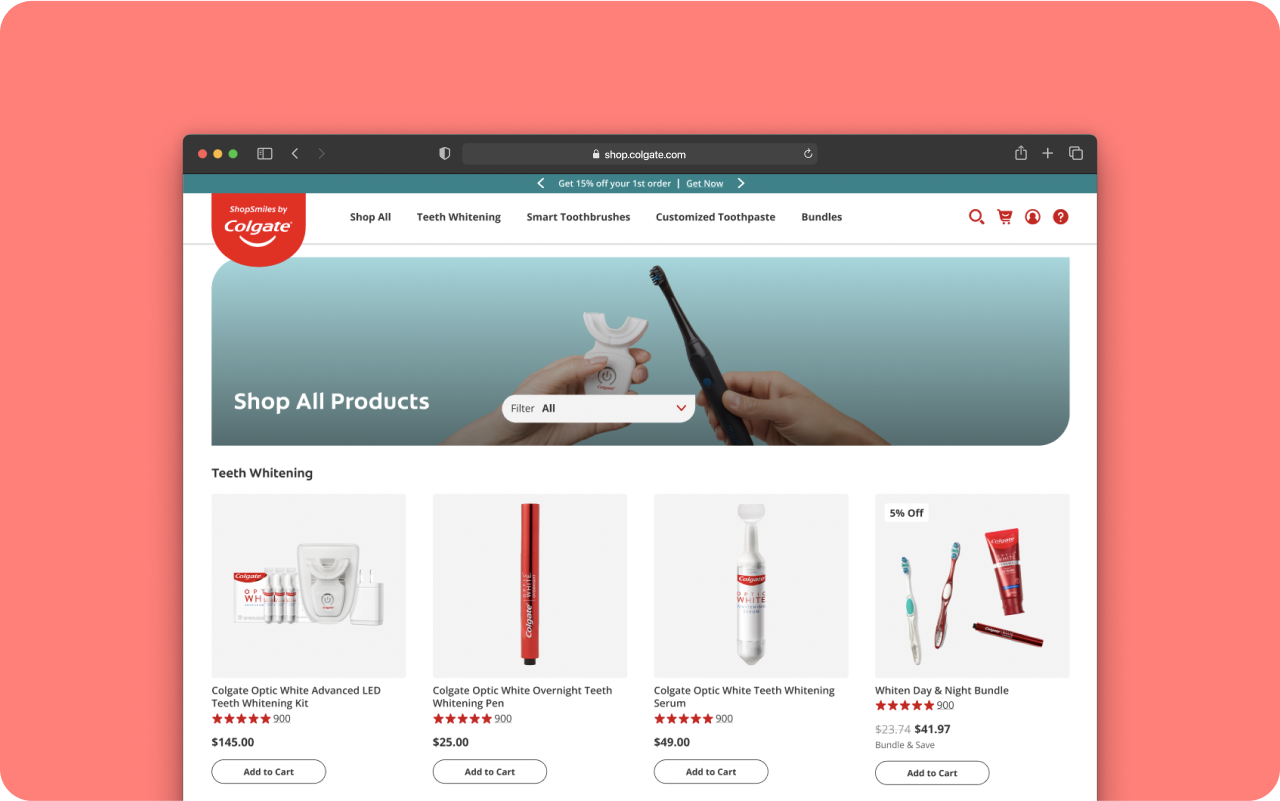
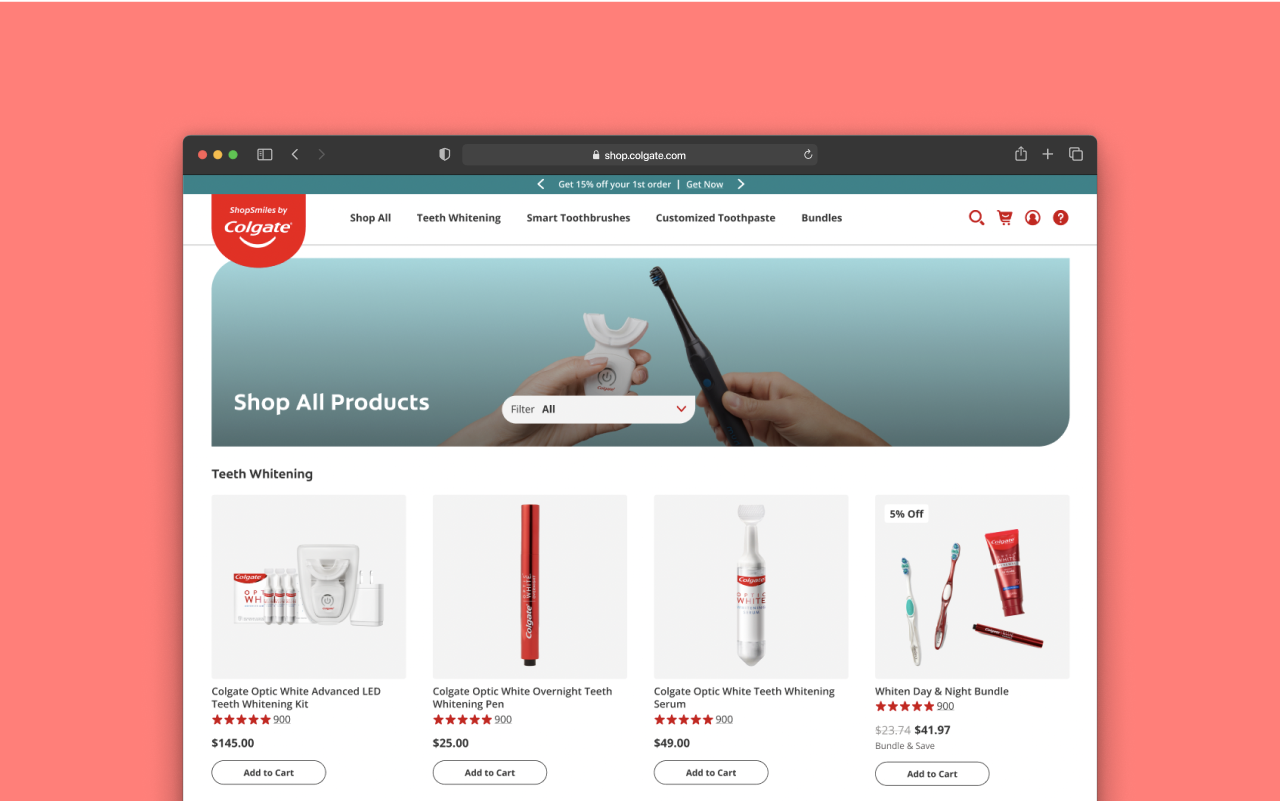
Portfolio

diff --git a/index.html b/index.html
@@ -57,7 +57,7 @@
         <!--project 1-->
         <div class="project">
             <a class="project-card" href="cp product card.html">
-                <img class="project-img" src="assets/img/cp-pdp.svg">
+                <img class="project-img" src="assets/img/cp-pdp.png">
             </a>
             <div class="project-text">
                 <h3 class="project-number">01</h3>

diff --git a/about.html b/about.html
@@ -2,6 +2,7 @@
 <head>
     <link rel="stylesheet" href="assets/css/style.css">
     <link rel="stylesheet" href="https://fonts.googleapis.com/css?family=Inter:300,400,500,700">
+    <meta name="viewport" content="width=device-width, initial-scale=1">
     <title>About Me</title>
 </head>
 <body>
